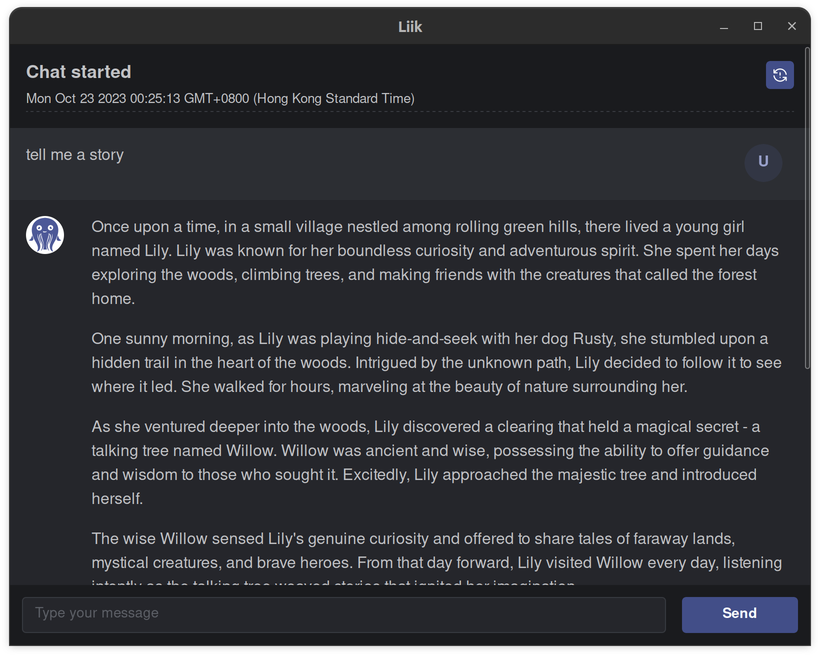
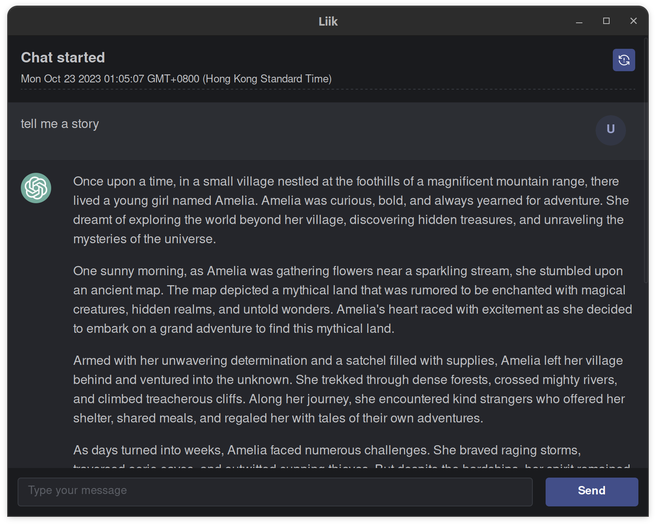
Update README.md, app-screenshot.png, ChatHistory.tsx, and 1 more file

diff --git a/src/Apps/DirectOpenAIApp/ChatHistory.tsx b/src/Apps/DirectOpenAIApp/ChatHistory.tsx
@@ -2,7 +2,7 @@ import React from 'react'
 import Markdown from "react-markdown";
 import remarkUnwrapImages from "remark-unwrap-images";
 import chatStyles from './Chat.module.css'
-import logo from '../../assets/logo.svg'
+import openAILogo from '../../assets/ChatGPT-Logo.png'
 import { Alert, Avatar, Center, Container, Grid, ScrollArea } from "@mantine/core";
 import { HistoryMessage } from './HistoryMessage';
 
@@ -50,7 +50,7 @@ export default function ChatHistory({
                         <Grid>
                             {rec.message?.role == 'assistant' &&
                                 <Grid.Col span={1}>
-                                    <Avatar src={logo} radius="xl">{rec.message?.role[0].toUpperCase()}</Avatar>
+                                    <Avatar src={openAILogo} radius="xl">{rec.message?.role[0].toUpperCase()}</Avatar>
                                 </Grid.Col>
                             }
                             <Grid.Col span="auto" className={chatStyles['chat-record-item']}>

diff --git a/README.md b/README.md
@@ -1,4 +1,4 @@
-### An mini app to chat with ChatGPT using your own OpenAI key for connection.
+### A mini app to chat with ChatGPT using your own OpenAI key for connection.
 
 - install the App (pick a right installer for your OS from the Releases)
 - you will be asked for the OpenAI access key (take it from your OpenAI account)
